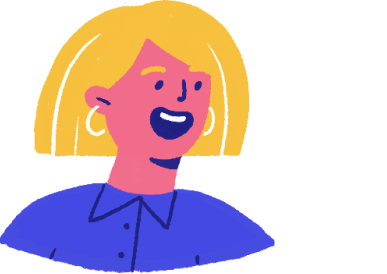
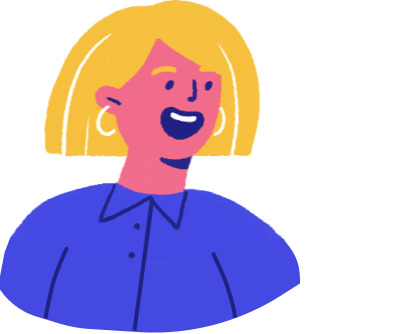
update

diff --git a/src/pages/Saas.vue b/src/pages/Saas.vue
@@ -114,12 +114,12 @@
 						title="Понимайте своего клиента и находите инсайты для улучшения продукта"
 						:tabs="[
 							{
-								title: 'Клиенты готовы рассказать вам о багах и своих задачах. Дайте им такую возможность — объедините чат, мессенджеры, соцсети, почту',
-								pic: '7.png'
-							},
-							{
 								title: 'Собирайте инсайты о том, как клиенты используют ваш продукт. Это помогает его развивать в нужном направлении',
 								pic: '8.png'
+							},
+							{
+								title: 'Клиенты готовы рассказать вам о багах и своих задачах. Дайте им такую возможность — объедините чат, мессенджеры, соцсети, почту',
+								pic: '7.png'
 							},
 							{
 								title: 'Находите узкие места и улучшайте продукт. С помощью воронок сайта и подробного пути пользователя',
@@ -243,20 +243,23 @@
 				position: absolute;
 				z-index: 5;
 				width: 1900px;
+				height: 96%;
 				top: 5%;
-				bottom: 0;
+				bottom: -2px;
 				left: 50%;
 				margin-left: -950px;
 				@media (min-width: 1900px) {
 					width: 100%;
+					top: inherit;
 					left: 0;
+					bottom: -1px;
 					margin-left: 0;
 				}
 			}
 			&__girl {
 				position: absolute;
 				z-index: 4;
-				top: 195px;
+				top: 220px;
 				left: 50%;
 				margin-left: -130px;
 				animation: slide-top 0.5s cubic-bezier(0.250, 0.460, 0.450, 0.940) both;
@@ -372,8 +375,8 @@
 				}
 				&__girl {
 					width: 180px;
-					margin-left: -50px;
-					top: 255px
+					margin-left: -70px;
+					top: 170px
 				}
 			}
 		}

diff --git a/src/main.js b/src/main.js
@@ -30,9 +30,6 @@ export default function(Vue, { head }) {
 		src: 'https://code.jquery.com/jquery-3.5.1.min.js'
 	})
 	head.script.push({
-		src: '/assets/js/cq.js'
-	})
-	head.script.push({
 		src: '/blog/article/assets/js/cq.js'
 	})
 
